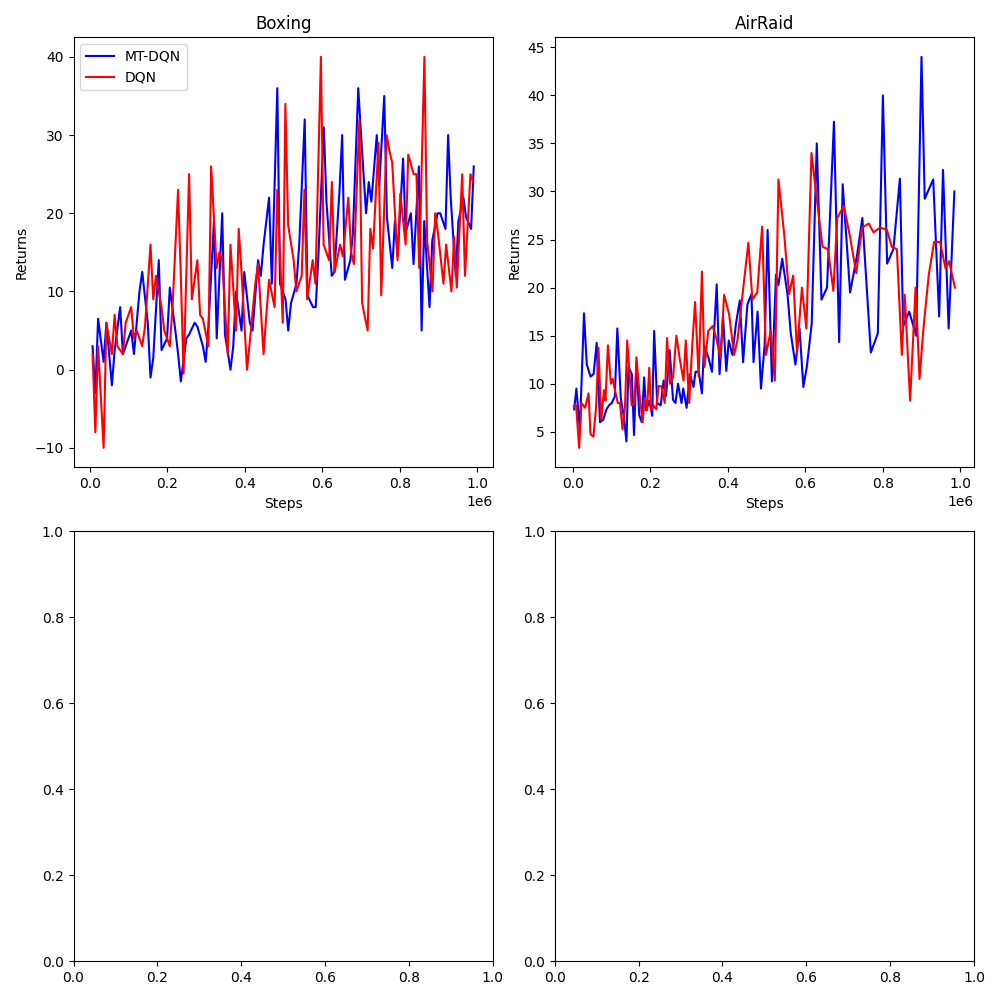
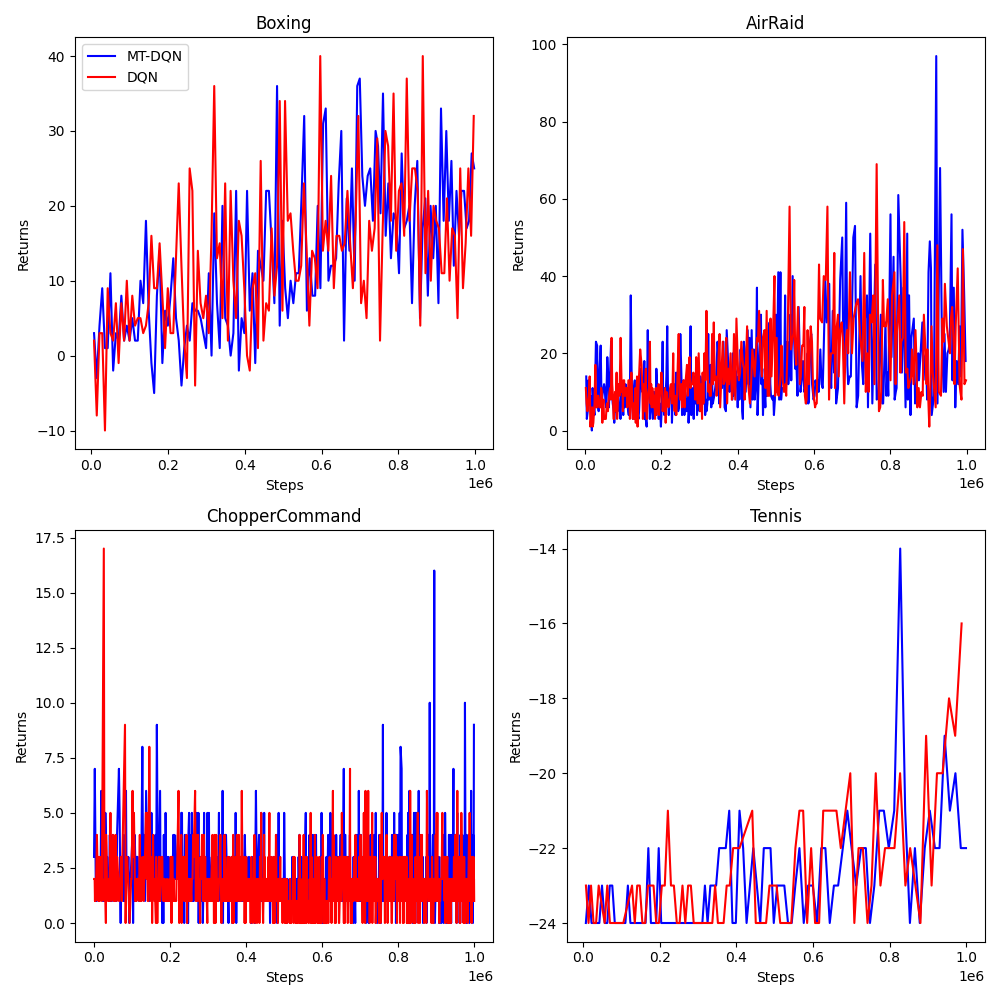
final

diff --git a/plot.py b/plot.py
@@ -96,8 +96,8 @@ plt.clf()
 # now plot the transfer case
 envs = {"BoxingNoFrameskip-v4": ("logs/2024_04_19_15_01_01/DQN_1", "logs/2024_04_19_17_20_34/DQN_1"),
         "AirRaidNoFrameskip-v4": ("logs/2024_04_22_09_12_22/DQN_1", "logs/2024_04_22_11_19_29/DQN_1"),
-        "ChopperCommandNoFrameskip-v4": ("logs/2024_04_22_13_25_29/DQN_1", "logs/2024_04_19_17_20_34/DQN_3"),
-        "TennisNoFrameskip-v4": ("logs/2024_04_19_15_01_01/DQN_4", "logs/2024_04_19_17_20_34/DQN_4")
+        "ChopperCommandNoFrameskip-v4": ("logs/2024_04_22_13_25_29/DQN_1", "logs/2024_04_22_15_49_46/DQN_1"),
+        "TennisNoFrameskip-v4": ("logs/2024_04_22_17_59_14/DQN_1", "logs/2024_04_22_20_08_02/DQN_1")
         }
 fig, axs = plt.subplots(2, 2, figsize=(10, 10))
 index = 0
@@ -115,7 +115,8 @@ for env, (mt_dqn_dir, dqn_dir) in envs.items():
         for returns, label, color in [(mt_dqn_returns, "MT-DQN", "blue"), (dqn_returns, "DQN", "red")]:
             step = returns[f"rollout/return_{env_name}"]["step"]
             value = returns[f"rollout/return_{env_name}"]["value"]
-            xs, ys = smooth(step, value)
+            # xs, ys = smooth(step, value)
+            xs, ys = step, value
             ax.plot(xs, ys, label=label, color=color)
 
         ax.set_title(f"{env_name}")

diff --git a/README.md b/README.md
@@ -1,1 +1,31 @@
 # RL-Course-Project
+
+This repo implements our course project for Spring, 2024, Theory and Practice of
+Reinforcement Learning. This project tests a multi-task version of DQN
+where a single feature extractor is shared between multiple Atari environments. 
+The goal was to investigate if there would be positive or negative transfer by taking this approach.
+Positive transfer would imply there are shared visual features between environments.
+Each environment has a separate matrix C mapping the features to value functions.
+
+To get started, install dependencies with
+
+    pip install numpy torch stable_baselines3[all] gymnasium[atari,accept-rom-license] tqdm rich tensorboard matplotlib opencv-python-headless
+
+Then, you may run the experiments with
+
+    ./run_experiment.sh # linux
+ or
+ 
+    ./run_experiment.bat # windows
+
+To plot, first modify the directory locations in plot.py and then run 
+
+    python plot.py
+
+Images will be written to the working directory. Alternatively, you may view the results via
+
+    tensorboard --logdir logs
+
+Source code is available in /src/. It is an extensively modified version
+of DQN from stable baselines 3. It runs all environments in parallel in a vectorized
+gymnasium environment. 
